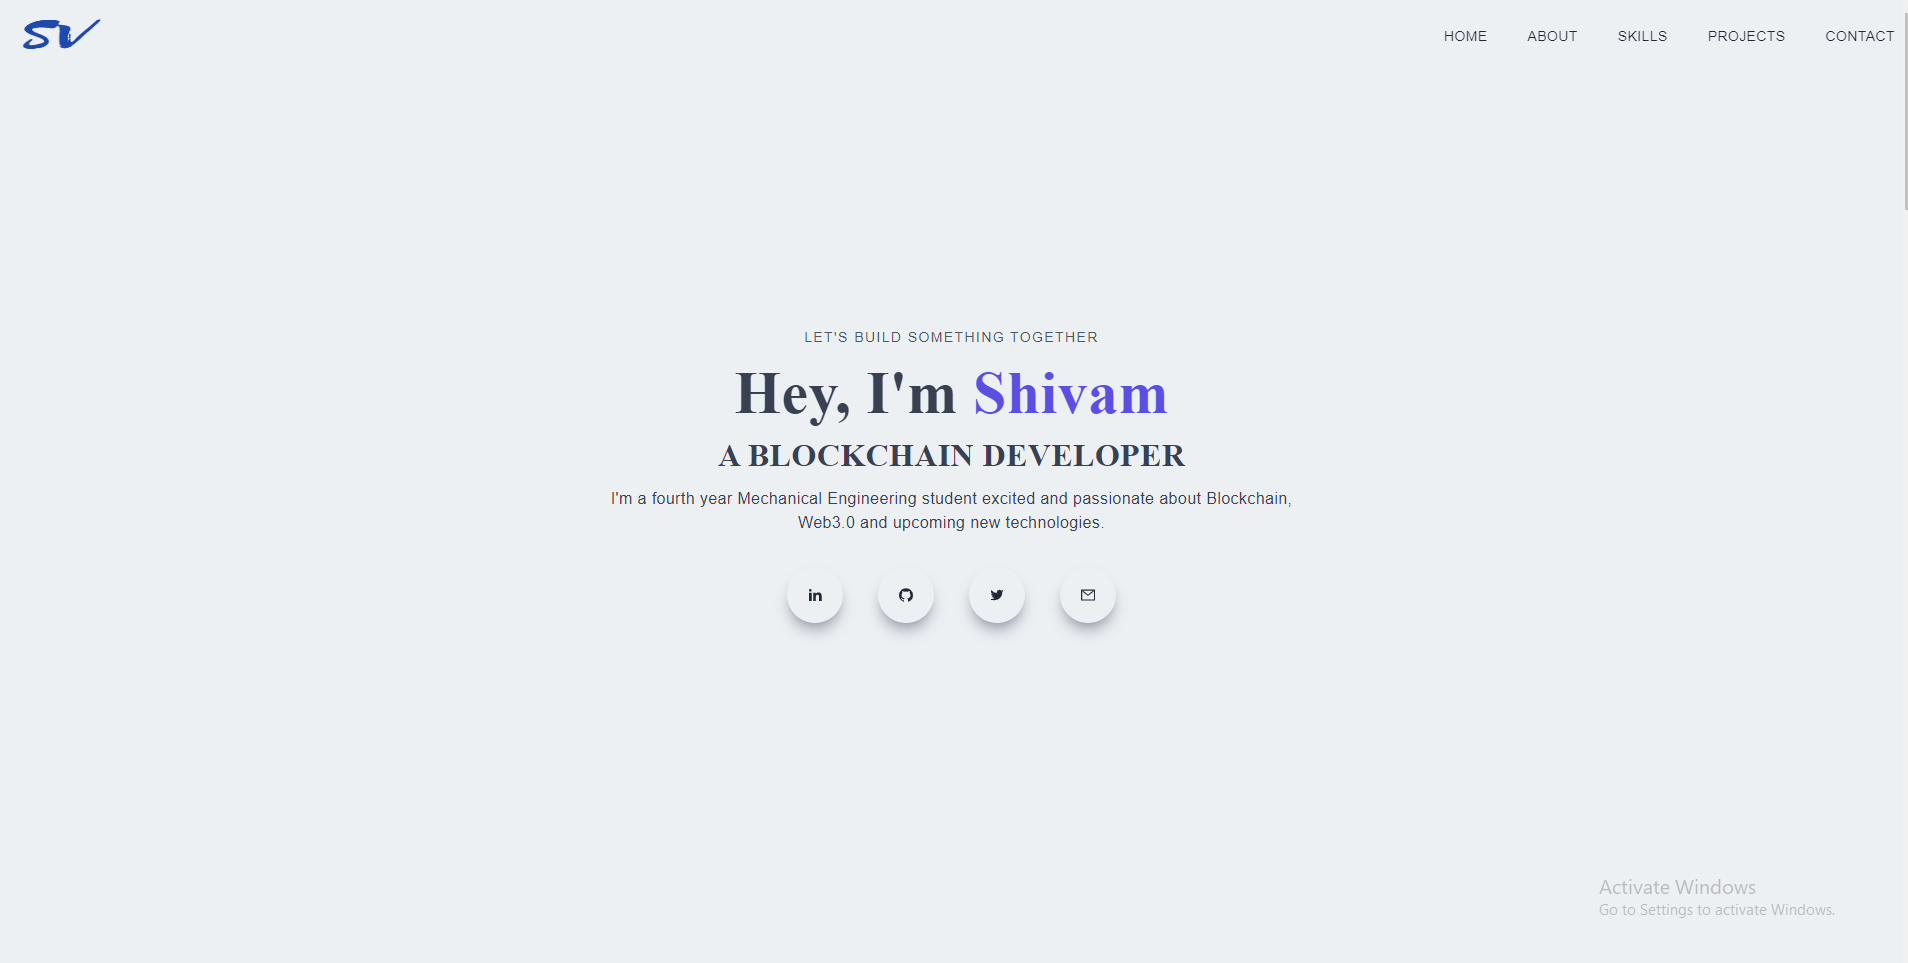
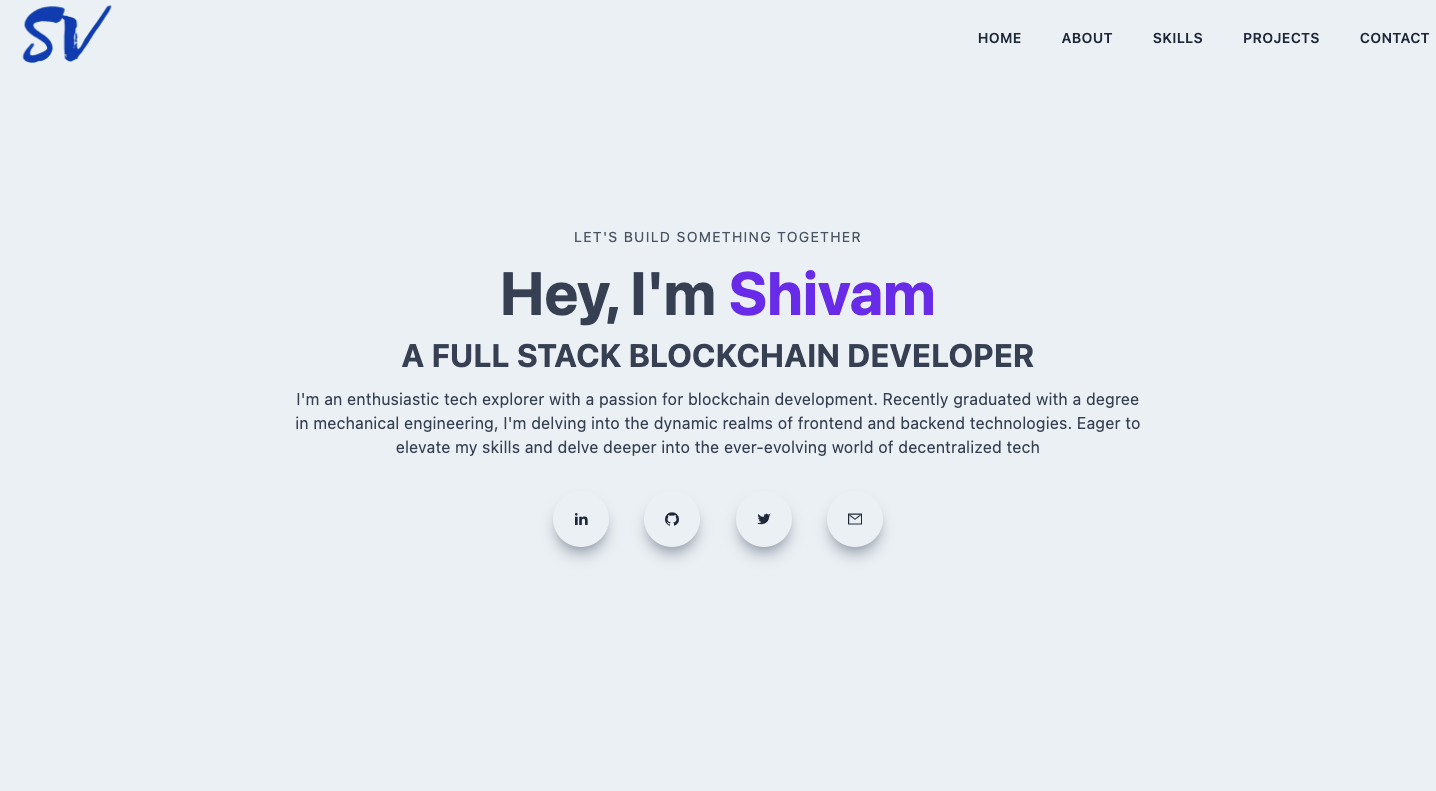
Chnage-about-component-content

diff --git a/components/Main.js b/components/Main.js
@@ -14,9 +14,9 @@ const Main = () => {
         
         <h1 className='py-4 text-gray-700'> Hey, I'm <span className= 'text-[#5651e5]'>Shivam </span> </h1>
 
-        <h1 className='py-25 uppercase text-[200%] text-gray-700'> A full stack blockchain developer</h1>
+        <h1 className='py-25 uppercase text-[200%] text-gray-700'> A Full Stack Software Developer</h1>
 
-        <p className='py-4 text-gray-700 max-w-[70%] m-auto'>I'm an enthusiastic tech explorer with a passion for blockchain development. Recently graduated with a degree in mechanical engineering, I'm delving into the dynamic realms of frontend and backend technologies. Eager to elevate my skills and delve deeper into the ever-evolving world of decentralized tech </p>
+        <p className='py-4 text-gray-700 max-w-[70%] m-auto'>I'm an enthusiastic tech explorer with a passion for blockchain development. Recently graduated, I'm delving into the dynamic realms of frontend and backend technologies. Eager to elevate my skills and delve deeper into the ever-evolving world of decentralized tech </p>
 
         <div className='flex items-center justify-between max-w-[330px] m-auto py-4'>
 

diff --git a/components/About.js b/components/About.js
@@ -16,7 +16,9 @@ const About = () => {
           <h2 className="py-4 ">Who I Am</h2>
 
           <p>
-          Greetings! I'm a Bhopal-based full stack Blockchain Developer with a Mechanical Engineering background. Despite graduating in the non-tech domain, my passion for Blockchain led me to gain hands-on experience in both front-end and back-end development.
+          Greetings! I'm a Bhopal-based Full Stack Software Developer. With a keen interst in blockchain technology. <br/> <br/>
+          Passionate about design and building exceptional digital experiences. 🚀 <br/> <br/>
+          Proficient in JavaScript, Typescript, NodeJs, NextJS, ReactJS, Bootstrap, 
      
           </p>
 
@@ -39,6 +41,7 @@ const About = () => {
             src={pix}
             width={1300}
             height={34}
+            alt="img"
           />
         </div>
       </div>

diff --git a/pages/portfolio.js b/pages/portfolio.js
@@ -39,7 +39,7 @@ const portfolio = () => {
             📌 Tech stack used for building this portfio-website are NextJS and TailwindCss.<br/>
             📌 The project also features smooth scrolling for excellent user experiece.<br />
             📌  Messages that the user sends are recieved using getForm.io <br />
-            📌  Hosted over -Netlify<br /><br />
+            📌  Hosted over -Vercel<br /><br />
 
             <span className="py-2 font-semibold">😎
 Cool NextJS features - </span><br />
